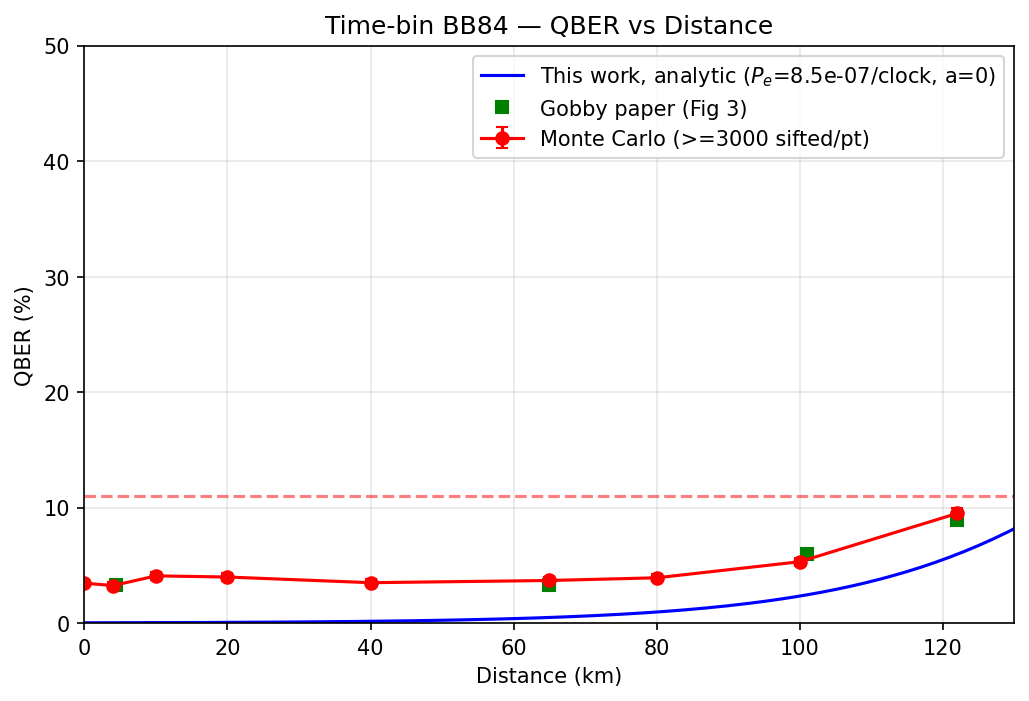
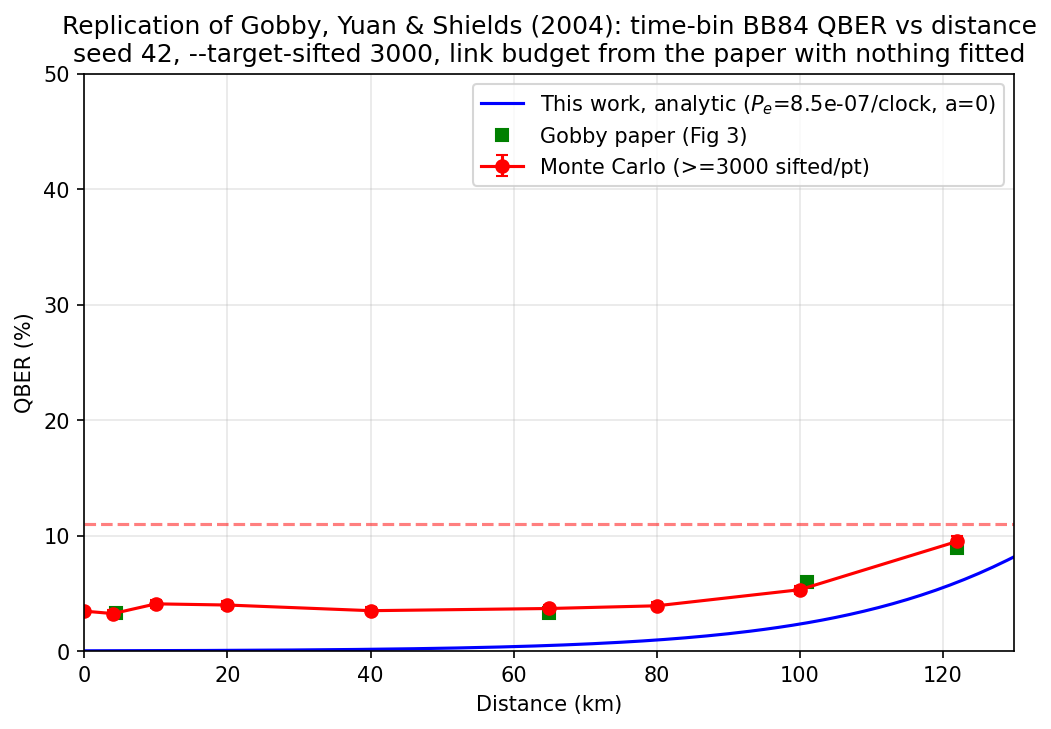
val_gobby: re-run the sweep; the fibre and drift work changed nothing
Full budget, 1.07e9 pulses across nine distances to 122 km, seed 42,
--target-sifted 3000. Every row is bit-identical to the previous artifact:
same pulse count, same sifted count, same QBER to four decimals.

That is the point of the run. bb84_time_bin.py changed substantially this
session -- FiberRealization applied between Alice's combiner and Bob's
splitter, a drift clock on the fibre, and the interference coefficients
lifted into a blocked extraction -- and bit-identity had only been shown at
0 and 50 km on 300k pulses. This shows the default path is untouched
everywhere the replication actually runs, including the 122 km point where
the sifted fraction is 1.3e-5 and 663M pulses buy 4749 bits.

So the fibre is inert when its flags are off, the drift clock is inert when
its rate is zero, and drift_blocks collapses to a single extraction rather
than merely to an equivalent one.

What did change is the header, from the previous commit: 37 header lines of
47 down to 23 of 33 in the CSV, 46 of 60 down to 27 of 41 in the .tex, with
the afterpulsing claim and the 50:50 claim gone. The (m)/(i) marking
survives and 6.0\,(m@101) still prints. The figure gains a title naming the
paper, the seed and the budget.

Changed region(s): [[0.0, 0.0, 0.9951, 0.9886], [0.8397, 0.8088, 0.9018, 0.8388], [0.8707, 0.2397, 0.9018, 0.2696]]

diff --git a/analysis/val_gobby/val_gobby_table.tex b/analysis/val_gobby/val_gobby_table.tex
@@ -2,39 +2,20 @@
 % QBER error bars are binomial sqrt(q(1-q)/n_sifted).
 %
 % Gobby et al. (2004) link budget -- from the paper, not fitted:
-%   alpha = 0.2 dB/km   mu = 0.1 photons/clock   eta_Bob = 0.045 (incl. Bob's 5 dB)
-%   gate = 3.5 ns   clock = 2 MHz   pulse = 80 ps
-%   P_e = 8.50e-07/clock/detector -- Gobby's measured total error
-%         probability (dark count 3.2e-7 + 1.3 um clock-laser stray
-%         light 5.3e-7, deliberately lumped: their sum is what was
-%         measured, and splitting them adds an unconstrained knob).
+%   alpha   0.2 dB/km       mu     0.1 photons/clock
+%   eta_Bob 0.045         (includes Bob's 5 dB apparatus loss)
+%   gate    3.5 ns         clock  2 MHz       pulse  80 ps
+%   P_e     8.50e-07/clock/detector -- measured total error
+%           probability: dark count 3.2e-7 + clock-laser stray
+%           light 5.3e-7, lumped because the sum is what was measured
 %
-% Detector parameters NOT from Gobby (the only free inputs here):
-%   afterpulse_prob = 0.0   dead_time = 13 us   [ID230 datasheet]
-%   Afterpulsing is the candidate for the paper's acknowledged
-%   third error source (section 18.4 residual: 2.9-4.2 pp, roughly
-%   distance-independent; measured here in isolation at 2.26 %).
-%   It is used at its datasheet value and MUST NOT be fitted --
-%   doing so would make the 122 km point a fit rather than a
-%   prediction, which is the whole point of this parameterisation.
+% Not from Gobby, both at datasheet value and NOT to be fitted --
+% fitting either would make the 122 km point a fit, not a prediction:
+%   afterpulse_prob 0.0   dead_time 13 us   [ID230]
 %
-% Visibility is an OUTPUT, V = S/(S + 2*P_e), not an input; the
-% decoder is ideal (V = 1.0).  Injecting a measured
-% visibility as well would apply the same physics twice -- see
-% section 18.4.  The V column below is that prediction; the paper
-% states > 0.99 at 65 km and 0.884 at 122 km.
-%
-% Structural difference worth recording: Gobby's 1.6:1 reference-
-% to-encoded intensity ratio puts 0.04 photons in the encoded
-% pulse, whereas this encoder AMZI splits 50:50.  That is a
-% difference in the chain, not a parameter, and may account for
-% part of any residual.
-%
-% The Gobby column is a MEASUREMENT only on rows marked (m).
-% The paper published four points -- 4.4, 65, 101, 122 km
-% -- and rows marked (i) are np.interp between them, or below
-% 4.4 km the endpoint value repeated.  Compare against the (m)
-% rows; the (i) rows cannot disagree with anything.
+% Visibility is an output of this budget, V = S/(S + 2*P_e), and the
+% decoder is ideal at V = 1.0.  The V column is that prediction;
+% the paper states > 0.99 at 65 km and 0.884 at 122 km.
 %
 \begin{tabular}{rcccccc}
   Distance & Pulses & Sifted & QBER & Predicted & This work & Gobby et al. \\
